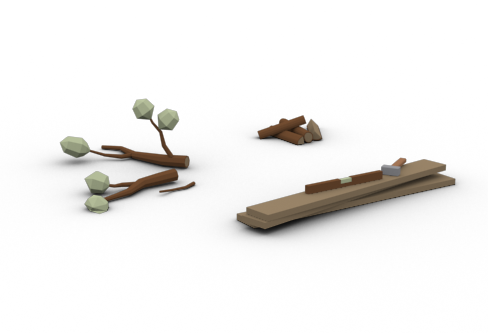
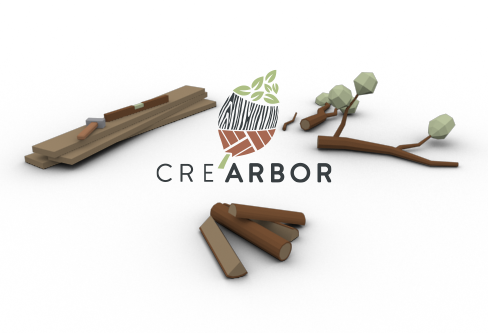
Production V1

Changed region(s): [[0.0307, 0.2102, 0.9529, 0.8709]]

diff --git a/js/scene.js b/js/scene.js
@@ -9,14 +9,14 @@ let container;
 let camera, scene, renderer, ambientLight, pointLight, composer;
 let rendering = true;
 let loadingManager_r1;
-let tree_1, tree_2, about_scene, about_logo_scene, fireplace_scene;
+let tree_1, tree_2, about_scene, about_logo_scene, fireplace_scene, wood_boards;
 let sectionsSizes = [];
 let sectionYPos = [];
 
 let windowHalfX = window.innerWidth / 2;
 let windowHalfY = window.innerHeight / 2;
 const idleRadius = 300;
-const idleSpeed = 0.003;
+const idleSpeed = 0.01;
 const idleSensibility = 0.025;
 let idleStore = 0;
 let mX, mY;
@@ -391,6 +391,30 @@ function setScene_1(){
 
         scene.add(fireplace_scene);
     });
+
+    aoMap = textureLoader.load( './assets/wood_boards_ao.jpg' );
+    aoMap.encoding = THREE.sRGBEncoding;
+    let wood_boards_mat = new THREE.MeshStandardMaterial( {
+        color: 0x373d40,
+        aoMap: aoMap,
+        aoMapIntensity: 1
+    } );
+
+    fbxLoader.load( './assets/wood-boards.fbx', function ( object ) {
+        object.traverse(obj => obj.frustumCulled = false);
+        object.traverse( function ( child ) {
+            if ( child.isMesh ) {
+                child.material = wood_boards_mat;
+            }
+        });
+        wood_boards = object;
+        wood_boards.position.x = 365;
+        wood_boards.position.y = -2541;
+        wood_boards.position.z = 915;
+
+        scene.add(wood_boards);
+    });
+
 }
 
 function setSceneLoader_1(){
@@ -429,7 +453,7 @@ function animate() {
     if ( scene ) {
         tree_1.rotation.y += .0025
         tree_2.rotation.y += .0025
-        about_scene.rotation.y += .0025
+        about_scene.rotation.y -= .0025
 
         if(idleStore <= 360){
             idleStore += idleSpeed;
@@ -448,12 +472,16 @@ function animate() {
         }
         mouseX = ( x - windowHalfX )/5;
         mouseY = ( y - windowHalfY )/5;
-        targetX = mouseX * .0025;
-        targetY = mouseY * .0025;
-        about_logo_scene.rotation.y += idleSensibility * ( targetX - about_logo_scene.rotation.y );
+        targetX = mouseX * .002;
+        targetY = mouseY * .002;
+        //about_logo_scene.rotation.y += idleSensibility * ( targetX - about_logo_scene.rotation.y );
         //about_logo_scene.rotation.x += idleSensibility * ( targetY - about_logo_scene.rotation.x );
         fireplace_scene.rotation.y += idleSensibility * ( targetX - fireplace_scene.rotation.y );
         //fireplace_scene.rotation.x += idleSensibility * ( targetY - fireplace_scene.rotation.x );
+        targetX = mouseX * .0001;
+        targetY = mouseY * .0001;
+        wood_boards.rotation.y += idleSensibility * ( targetX - wood_boards.rotation.y );
+        wood_boards.rotation.x += idleSensibility * ( targetX - wood_boards.rotation.x );
     }
     TWEEN.update();
     /*if(clickAnimate){
@@ -608,10 +636,10 @@ function getSectionsSize(){
         sectionYPos.push(yPos);
         yPos += $(this).height();
     });
-    console.log("sectionsSizes");
+    /*console.log("sectionsSizes");
     console.log(sectionsSizes);
     console.log("sectionYPos");
-    console.log(sectionYPos);
+    console.log(sectionYPos);*/
 }
 
 function onWindowResize() {
@@ -624,7 +652,7 @@ function onWindowResize() {
     windowHalfY = window.innerHeight / 2;
     getSectionsSize();
     checkInnerWidth();
-
+    console.log(window.innerWidth);
 }
 
 function checkInnerWidth(){

diff --git a/css/main.scss b/css/main.scss
@@ -258,8 +258,9 @@ canvas {
 
 footer{
   min-height: 25vh;
-  background-color: #8B9B5D;
-  background-image: url("../images/wood-topview.jpg");
+  background-color: #373d40;
+  //background-color: #8B9B5D;
+  //background-image: url("../images/wood-topview.jpg");
 }
 
 .footer-logo{
@@ -454,9 +455,35 @@ footer{
   .contact-container{
     padding: 0px 50px 50px 50px!important;
   }
+  .about-text{
+    font-size: large!important;
+  }
+}
 
-/*  .about-text{
-    margin-top: 400px;
-  }*/
+@media screen and (max-width: 1440px){
+  .fire-wood-text{
+    font-size: large!important;
+  }
+  .headline-container{
+    margin-bottom: 0!important;
+  }
 
+  .top-sub-headline{
+    margin-bottom: 20px!important;
+  }
+
+  nav{
+    padding: 0!important;
+  }
+
+  .section-padding{
+    padding-top: 110px!important;
+  }
+  .logo-image-top{
+    margin: 10px!important;
+  }
+
+  .about-text{
+    font-size: large!important;
+  }
 }

diff --git a/css/main.css b/css/main.css
@@ -208,8 +208,7 @@ canvas {
 
 footer {
   min-height: 25vh;
-  background-color: #8B9B5D;
-  background-image: url("../images/wood-topview.jpg"); }
+  background-color: #373d40; }
 
 .footer-logo {
   background-color: #373d40; }
@@ -365,8 +364,28 @@ footer {
   .contact-container {
     padding: 0px 50px 50px 50px !important; }
 
-  /*  .about-text{
-      margin-top: 400px;
-    }*/ }
+  .about-text {
+    font-size: large !important; } }
+@media screen and (max-width: 1440px) {
+  .fire-wood-text {
+    font-size: large !important; }
+
+  .headline-container {
+    margin-bottom: 0 !important; }
+
+  .top-sub-headline {
+    margin-bottom: 20px !important; }
+
+  nav {
+    padding: 0 !important; }
+
+  .section-padding {
+    padding-top: 110px !important; }
+
+  .logo-image-top {
+    margin: 10px !important; }
+
+  .about-text {
+    font-size: large !important; } }
 
 /*# sourceMappingURL=main.css.map */

diff --git a/js/main.js b/js/main.js
@@ -1,8 +1,7 @@
 $(document).ready(function(){
-
+    console.log(window.devicePixelRatio);
 });
 
 $('.navbar-nav>li>a').on('click', function(){
     $('.navbar-collapse').collapse('hide');
 })
-

diff --git a/index.php b/index.php
@@ -27,7 +27,7 @@
 </div>
 
 <nav class="navbar navbar-expand-md navbar-dark fixed-top">
-    <img src="./images/logo-small.png" class="img m-0" alt="Cre'Arbor logo" id="nav-logo" data-aos="fade-left" data-aos-offset="200" data-aos-duration="800"/>
+    <img src="./images/logo-small.png" class="img-fluid m-0 logo-image-top" alt="Cre'Arbor logo" id="nav-logo" data-aos="fade-left" data-aos-offset="200" data-aos-duration="800"/>
     <button class="navbar-toggler" type="button" data-toggle="collapse" data-target="#navbarToggler" aria-controls="navbarToggler" aria-expanded="false" aria-label="Toggle navigation" data-aos="fade-right">
         <span class="navbar-toggler-icon"></span>
     </button>
@@ -73,7 +73,7 @@
     </div>
     <div id="section-bottom">
         <div class="bottom-text container-fluid pt-3 z-index-set">
-            <div class="row mb-5">
+            <div class="row mb-5 top-sub-headline">
                 <div class="col-md-4"></div>
                 <div class="col-md-8" data-aos="fade-up">
                     <h2 class="sub-header ">À votre service</h2>
@@ -102,7 +102,7 @@
 
 <section id="about" class="d-none">
     <div class="container-fluid">
-        <div class="row section-padding mb-5">
+        <div class="row section-padding mb-5 headline-container">
             <div class="col-md-2" >
 
             </div>
@@ -140,7 +140,7 @@
 
 <section id="fire-wood" class="d-none">
     <div class="container-fluid">
-        <div class="row section-padding mb-5">
+        <div class="row section-padding mb-5 headline-container">
             <div class="col-md-2" ></div>
             <div class="col-md-10">
                 <h1 class="" data-aos="fade-down">BOIS DE CHAUFFAGE</h1>
@@ -170,7 +170,7 @@
                 <img src="./images/green_leaf_shadow.png" alt="Cre'Arbor leaf" data-aos="flip-left">
             </div>
             <div class="col-md-6 pt-3 fire-wood-text" data-aos="fade-up" data-aos-offset="200">
-                Le bois de chauffage Cre’Arbor provient à <strong>100% d’essences d’arbres durs et de 1ère qualitéw</strong>, comme le chêne, le hêtre, le frêne et le charme.  C’est la garantie du <strong>meilleur rendement calorifique</strong>.
+                Le bois de chauffage Cre’Arbor provient à <strong>100% d’essences d’arbres durs et de 1ère qualité</strong>, comme le chêne, le hêtre, le frêne et le charme.  C’est la garantie du <strong>meilleur rendement calorifique</strong>.
             </div>
             <div class="col-md-1" ></div>
         </div>
@@ -231,7 +231,7 @@
 </section>
 <section id="contact" class="d-none">
     <div class="container-fluid">
-        <div class="row section-padding">
+        <div class="row section-padding headline-container">
             <div class="col-md-2" >
 
             </div>

diff --git a/contact.php b/contact.php
@@ -24,7 +24,7 @@ if (!filter_var(htmlentities($_POST['email']), FILTER_VALIDATE_EMAIL)) {
                 ],
                 'To' => [
                     [
-                        'Email' => 'philippe.janssens@hotmail.co.uk',
+                        'Email' => 'info@crearbor.be',
                         'Name' => "Cre'Arbor"
                     ]
                 ],
